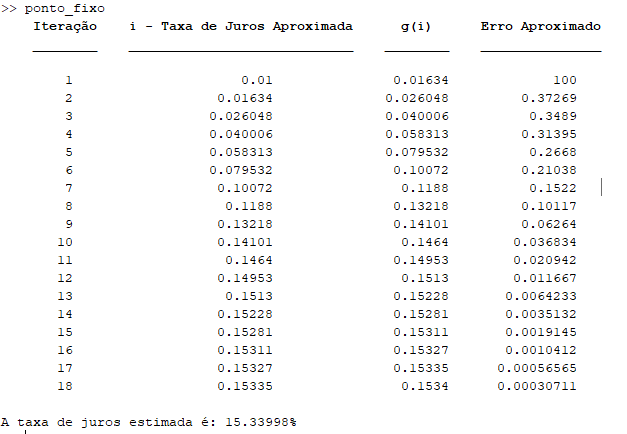
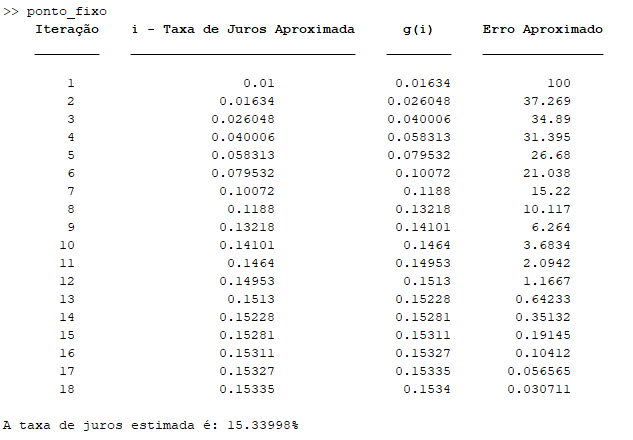
arrumando

diff --git a/Avaliacao01/Questao01/ponto_fixo.m b/Avaliacao01/Questao01/ponto_fixo.m
@@ -26,7 +26,7 @@ while true
     roots(end+1) = i;
     g_values(end+1) = inew;
     if iter > 1
-        errors(end+1) = abs((inew - i) / inew);
+        errors(end+1) = abs((inew - i) / inew)*100;
     else
         errors(end+1) = 100;  % Não há erro na primeira iteração
     end
